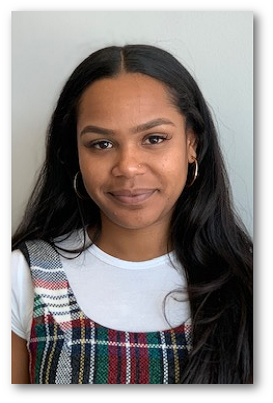
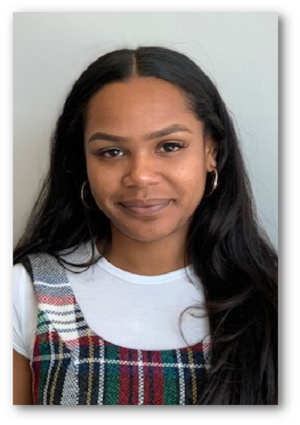
fixed height and added animation

diff --git a/frontend-user/src/views/People.vue b/frontend-user/src/views/People.vue
@@ -1,10 +1,17 @@
 <template>
-    <div class = "flex justify-center items-center">
-        <h1 class = "text-4xl text-sky-700 text-center p-8 font-extrabold">Meet Our Team</h1>
+    <div class="flex justify-center items-center">
+        <div class="bg-center w-full items-center md:py-40 md:pt-120 bg-[url('@/assets/doctor_today.jpg')] bg-no-repeat">
+            <div class = "flex justify-center items-center">
+                <h1 class = "text-5xl text-sky-700 text-center p-8 font-extrabold
+                            bg-slate-200 rounded-3xl bg-opacity-60">
+                            Meet Our Team
+                </h1>
+            </div>
+        </div>
     </div>
 
-    <div class="p-5">
-        <ul class="grid md:grid-cols-12 md:gap-6 content-center">
+    <div class="p-10">
+        <ul class="grid md:grid-cols-12 md:gap-10 content-center">
             <li class="py-3 px-10 md:px-0 max-w-md md:max-w-none min-h-max
                        md:col-span-6 lg:col-span-4"
                 v-for="(item,index) in peopleList" :key="item.id">
@@ -12,19 +19,20 @@
                 <div class="border-2 border-sky-700 rounded-xl">
                     <button class="flex flex-wrap" @click="showDescription(item.staff_id)">
                         <div class="w-full py-3">
-                            <div class="shadow-md backdrop-blur-sm bg-white
-                            w-full flex items-center justify-center overflow-hidden">
-                                <img class="w-2/3 hover:scale-110 transition-all duration-500" v-bind:src='item.image' :alt="item.name"/>
+                            <div class="h-full shadow-md w-full flex items-center justify-center overflow-hidden">
+                                <img
+                                class="pb-3 drop-shadow-xl w-[200px] h-[280px] object-none" v-bind:src='item.image' :alt="item.name"/>
                             </div>
                         </div>
 
-                        <div class="py-3 px-8 w-full content-center">
+                        <div class="px-8 w-full content-center">
                             <div class="w-5/6 float-left text-left">
                                 <div class="py-1 text-base font-bold">{{ item.name }}</div>
                             </div>
 
-                            <div class="items-center float-right">
-                                <svg xmlns="http://www.w3.org/2000/svg" width="24" height="24" viewBox="0 0 24 24">
+                            <div class="h-full items-center float-right">
+                                <svg class="rotate" :class="{ rotated: !visible[item.staff_id] }"
+                                    xmlns="http://www.w3.org/2000/svg" width="24" height="24" viewBox="0 0 24 24">
                                     <title>expand content</title>
                                     <g>
                                         <path d="M12,0A12,12,0,1,0,24,12,12.035,12.035,0,0,0,12,0Zm6,13H13v5H11V13H6V11h5V6h2v5h5Z"
@@ -34,16 +42,17 @@
                             </div>
                         </div>
 
-                        <div class="pb-3 px-8 w-full text-left">
+                        <div class="h-[60px] pb-3 px-8 w-full text-left">
+                            <p class="text-xs" v-if="item.staff_id === 4 || item.staff_id === 5">Independent Service Provider</p>
                             <p class="py-1 text-xs">{{ item.title }}</p>
                             <p class="italic text-xs">{{ item.profile }}</p>
                         </div>
                     </button>
 
-                    <div class="px-8 py-5 text-sm" v-if="visible[item.staff_id]">
+                    <div class="description px-8 pb-5 text-sm"
+                         v-if="visible[item.staff_id]">
                         <div class="leading-6">{{ item.description }}</div>
                     </div>
-
                 </div>
                 </li>
                 
@@ -54,7 +63,7 @@
 
 <script>
 import DataPeople from '../dataRoutes/DataPeople'
-
+//<div class="px-8 pb-5 text-sm"
 export default {
     data () {
         return {
@@ -94,24 +103,19 @@ export default {
 </script>
 
 <style>
-details>summary {
-    list-style: none;
+.rotate{
+  transform: rotate(45deg);
+  transition: all 0.4s ease-in-out;
 }
+.rotated{
+  transform: rotate(0deg);
 
-details summary::-webkit-details-marker {
-    display: none;
 }
-details summary::after {
-    content: url("@/assets/plus.png");
-    font-size: 2em;
-    color: #708090;
-    transition: transform 0.5s ease-in-out;
+.description {
+animation: height .4s ease-in-out;
 }
-
-details[open] summary::after {
-    content: url("@/assets/plus.png");
-    transform: rotate(-45deg);
-    transition: transform 0.5s ease-in-out;
+@keyframes height {
+  0%    {opacity: 0; margin-top: -8px}
+  100%  {opacity: 1; margin-top: 0px}
 }
-
 </style>

diff --git a/frontend-user/src/views/FAQs.vue b/frontend-user/src/views/FAQs.vue
@@ -15,7 +15,8 @@
                 <div class="">
                     <details class="open:bg-gray-100" v-for="(item,index) in QuestionList" :key="index">
                         <summary style="outline: none;" 
-                        class="px-2 py-3 text-lg cursor-pointer hover:bg-gray-100 border-t-2 flex justify-between items-center w-full text-sm md:text-base">
+                                 class="px-2 py-3 text-lg cursor-pointer hover:bg-gray-100 
+                                 border-t-2 flex justify-between items-center w-full text-sm md:text-base">
                             <p class="p-2 text-sky-700">{{ index+1 }}. {{ item.question }}</p>
                         </summary>
                         <div class="bg-white p-8 py-10 text-sm md:text-base text-justify leading-7" style="white-space: pre-line">
